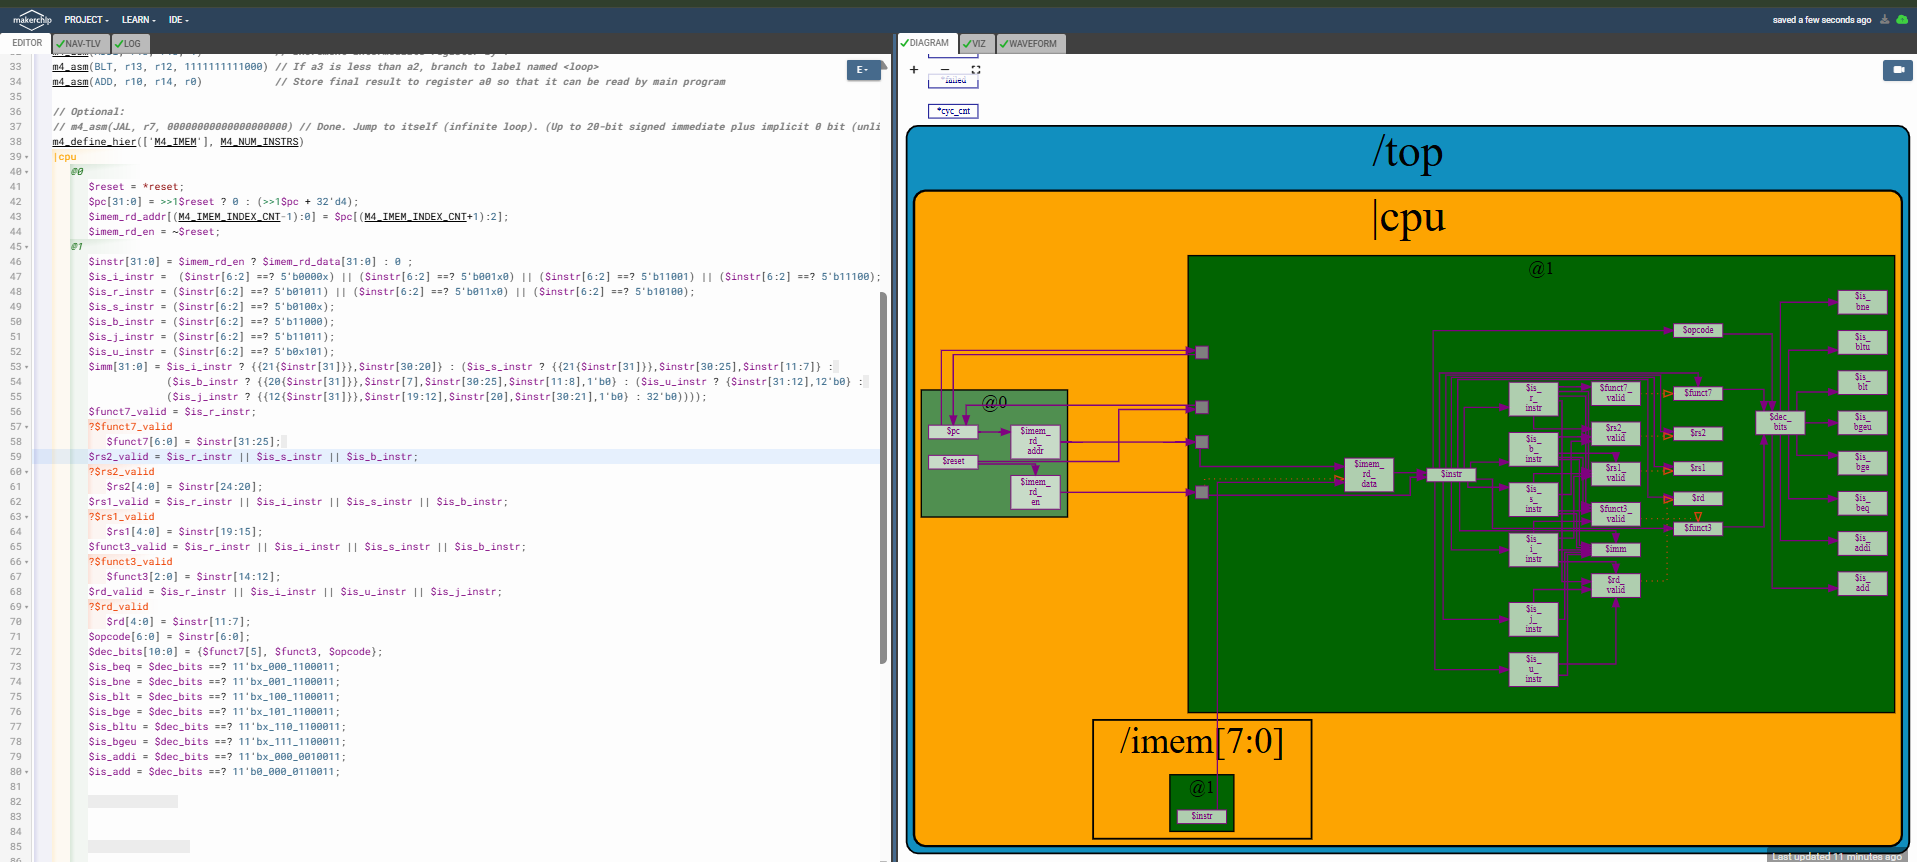
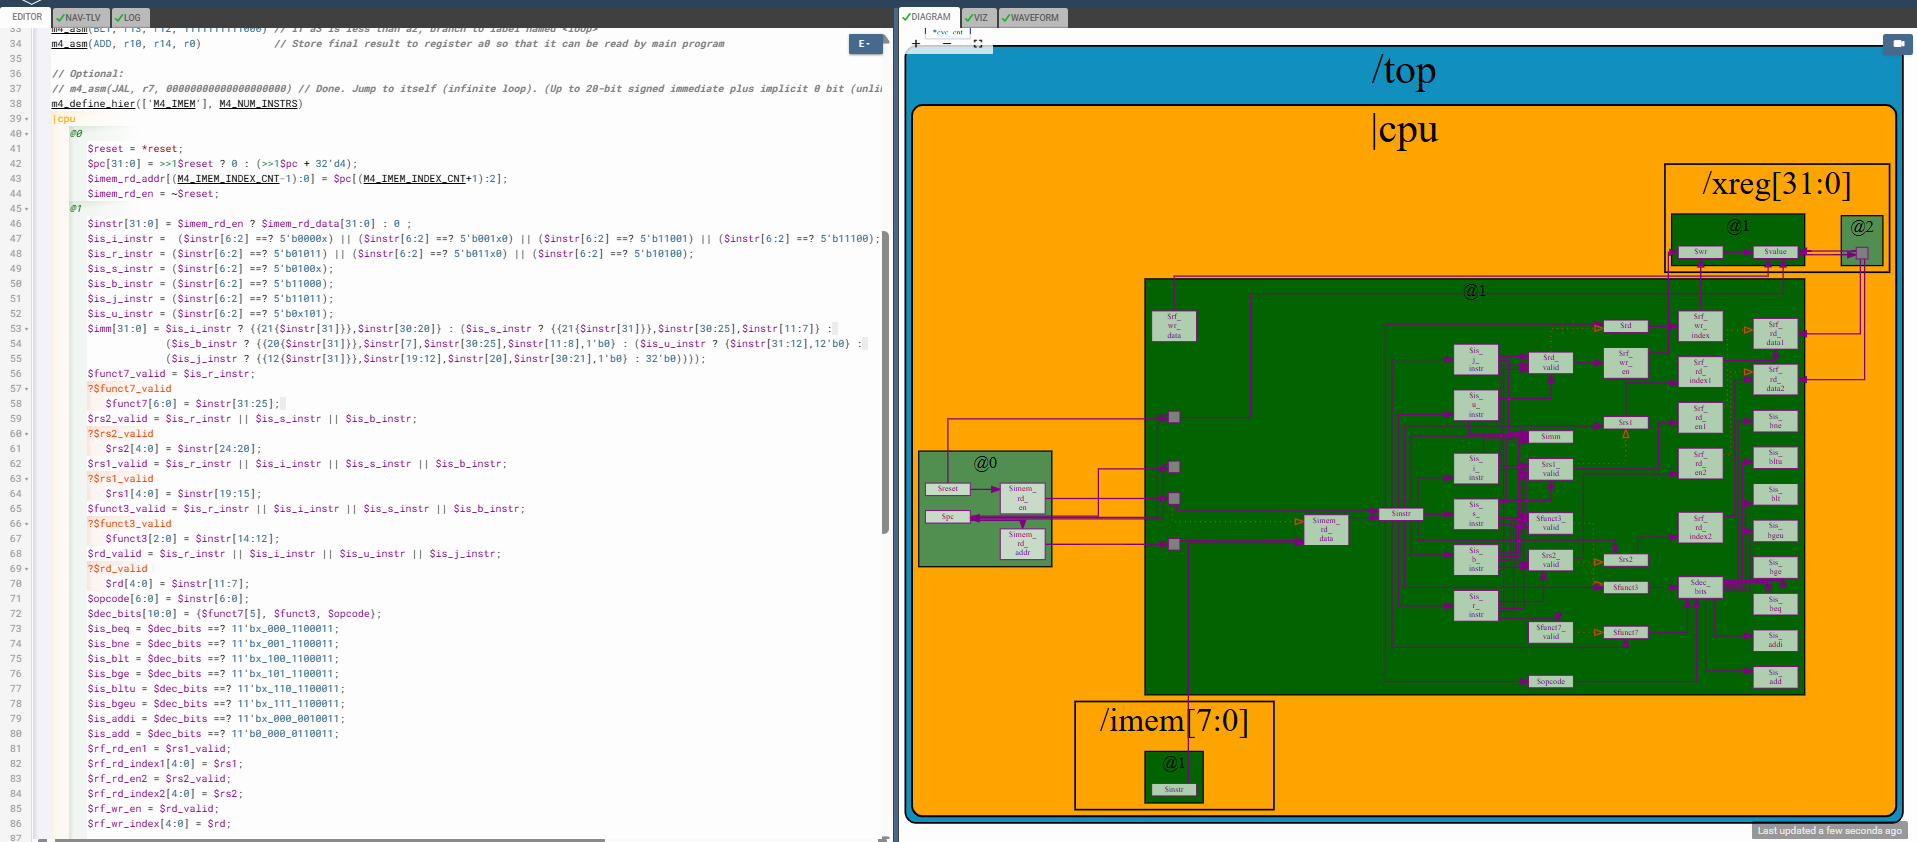
Add L46 and updated L45

diff --git a/day4/45-2.md b/day4/45-2.md
@@ -1,0 +1,24 @@
+# 45-2
+
+## Overview
+
+We next connect register file outputs to ALU input operands. The lecture focuses on:
+
+- operand forwarding from the register file
+- datapath signal hookup
+- semantic signal naming
+- ALU source operand preparation
+
+The values read from source registers are now connected to ALU operand signals, which will later be used to:
+
+- execute arithmetic
+- logical
+- comparison
+- branch operations.
+
+This lecture completes operand fetch connectivity
+between the register file and the arithmetic logic unit.
+
+! [RF ALU Interfacee TLV And Block Diagram](images/lec45/RF_ALU_Connection_TLV_And_Block_Diagram.png)
+
+[Click Here To Open the RF ALU Interface implementation in Makerchip](https://makerchip.com/v132/ide/~0ADf9hjY/p-0vghED)
